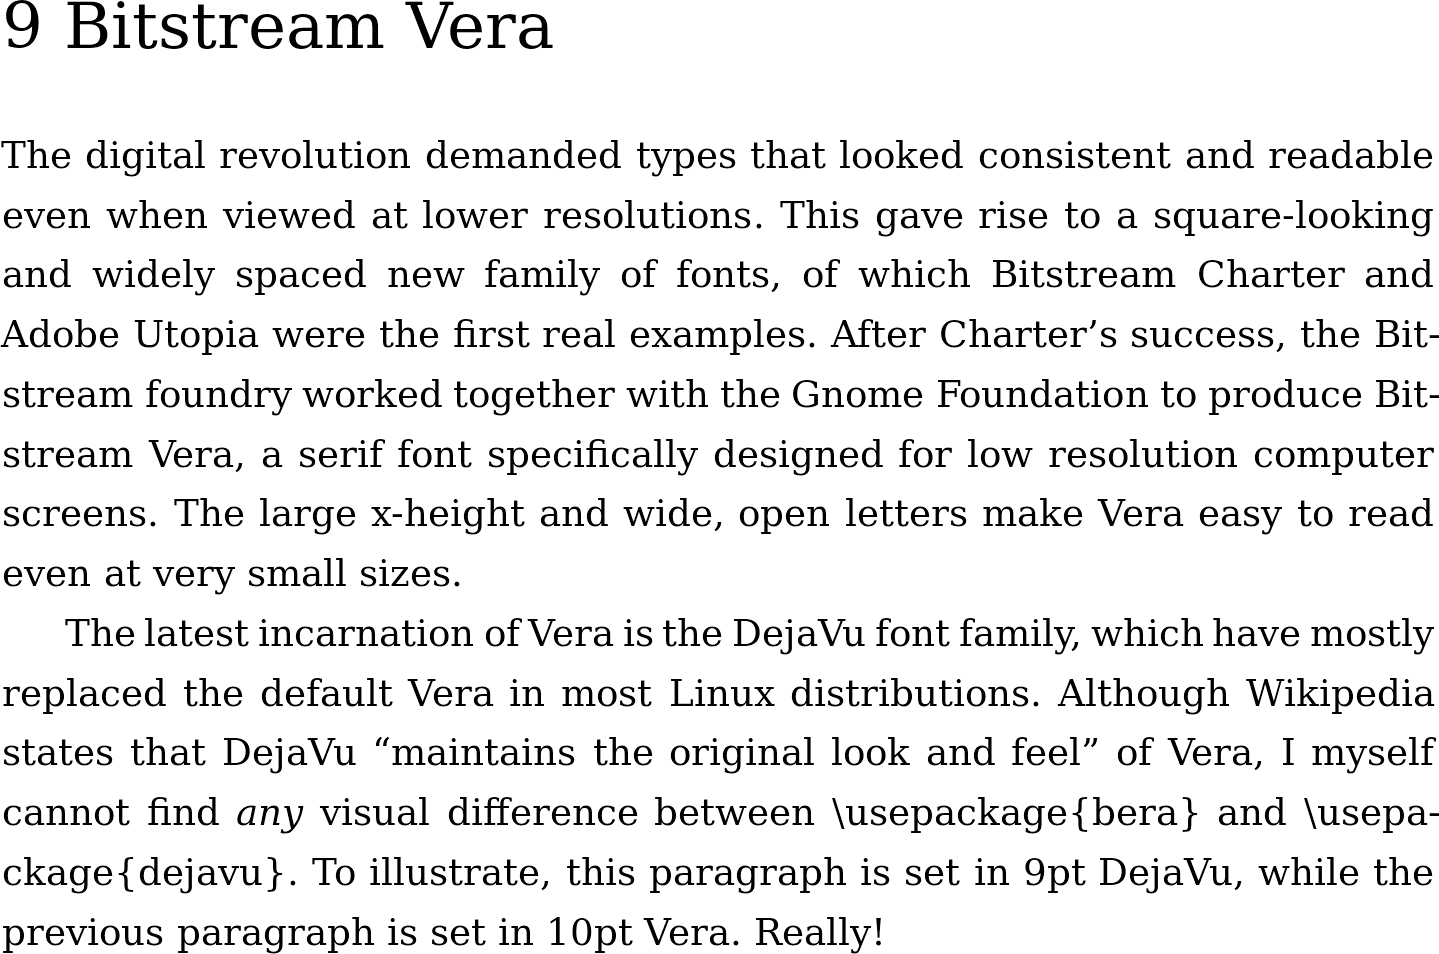
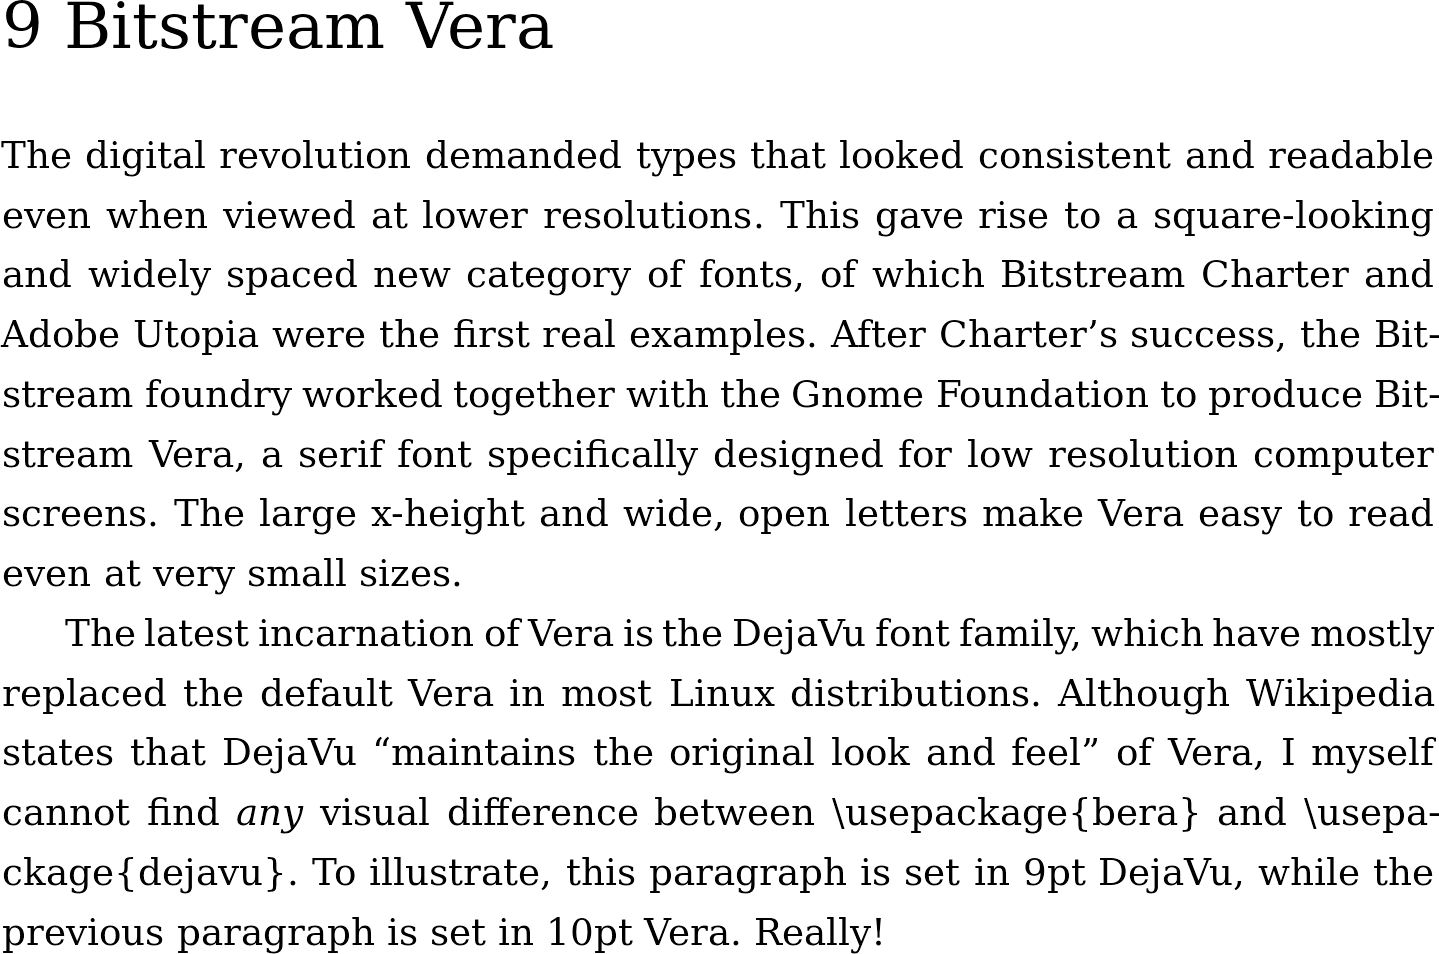
minor change

Changed region(s): [[0.0612, 0.2736, 0.9479, 0.304]]

diff --git a/bera.tex b/bera.tex
@@ -10,7 +10,7 @@
 \noindent
 {\LARGE 9 Bitstream Vera}\\
 ~\\
-The digital revolution demanded types that looked consistent and readable even when viewed at lower resolutions. This gave rise to a square-looking and widely spaced new family of fonts, of which Bitstream Charter and Adobe Utopia were the first real examples. After Charter's success, the Bitstream foundry worked together with the Gnome Foundation to produce Bitstream Vera, a serif font specifically designed for low resolution computer screens. The large x-height and wide, open letters make Vera easy to read even at very small sizes.
+The digital revolution demanded types that looked consistent and readable even when viewed at lower resolutions. This gave rise to a square-looking and widely spaced new category of fonts, of which Bitstream Charter and Adobe Utopia were the first real examples. After Charter's success, the Bitstream foundry worked together with the Gnome Foundation to produce Bitstream Vera, a serif font specifically designed for low resolution computer screens. The large x-height and wide, open letters make Vera easy to read even at very small sizes.
 
 \fontsize{9pt}{1em}
 {\fontfamily{DejaVuSerif-TLF}\selectfont
